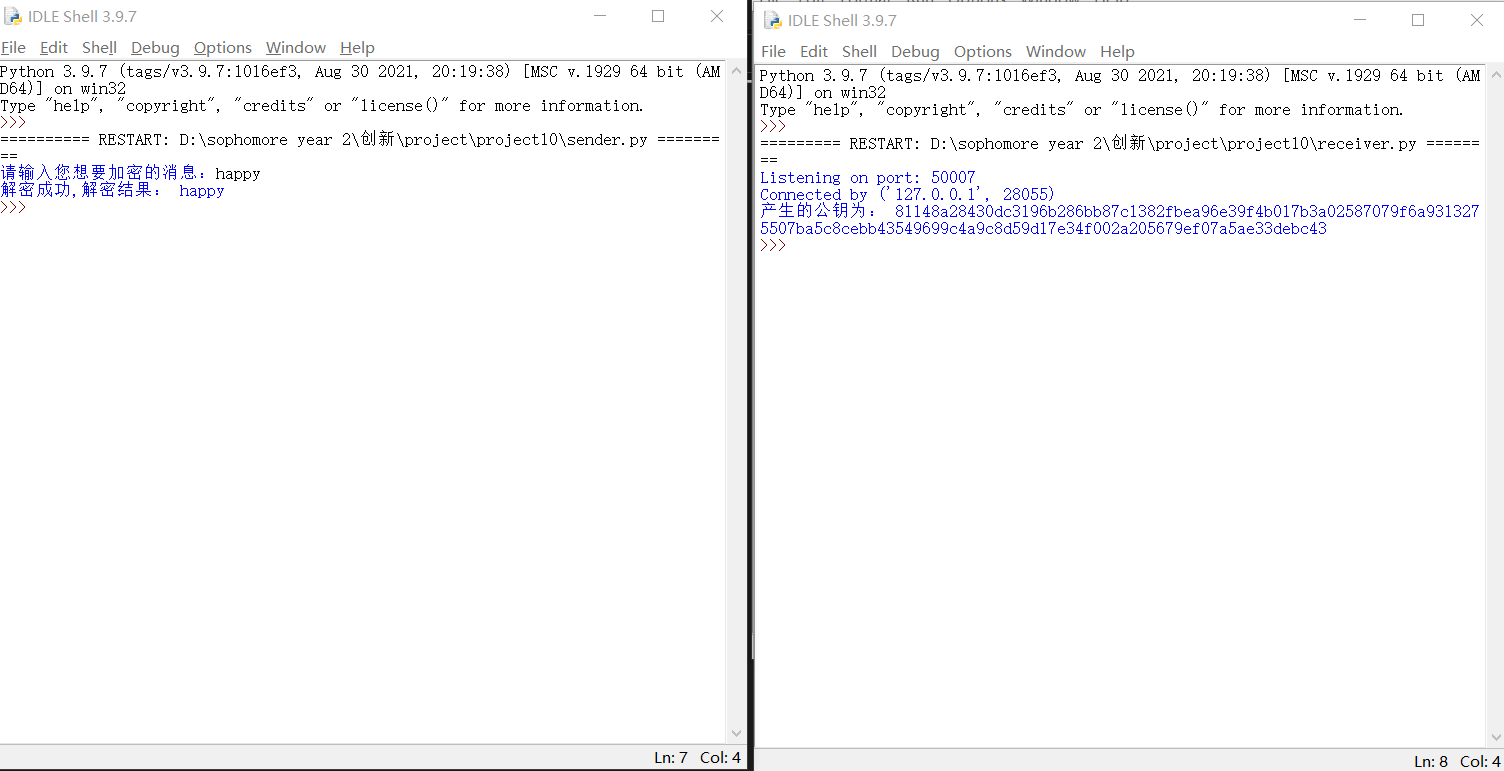
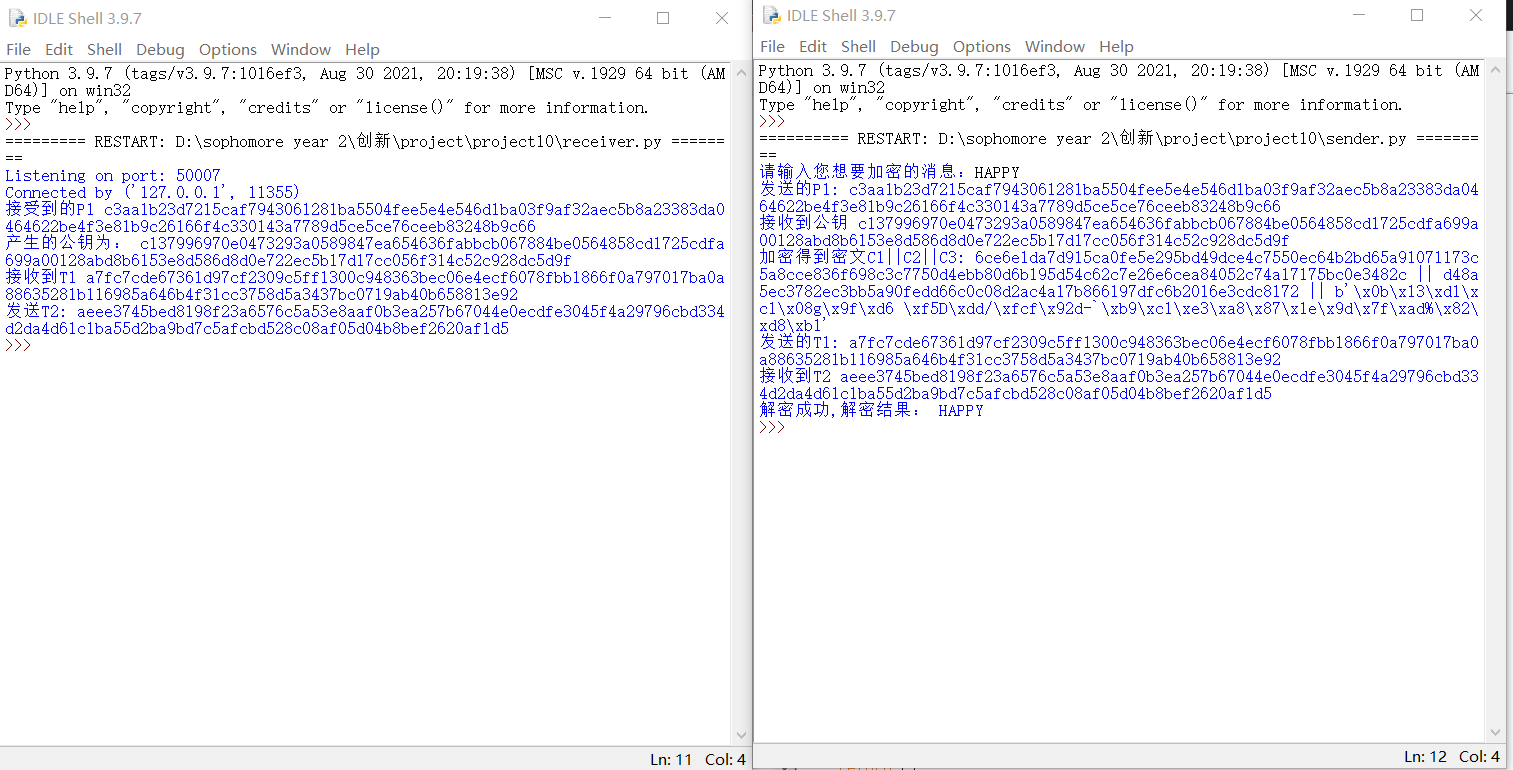
Add files via upload

Changed region(s): [[0.0, 0.0, 1.0, 1.0]]

diff --git a/project10/sender.py b/project10/sender.py
@@ -93,18 +93,21 @@ except Exception as e:
 d1=generate_d1()
 P1=generate_P1(d1)
 s.sendall(P1.encode('utf-8'))#发送P1
+print("发送的P1:",P1)
 P = s.recv(1024).decode('utf-8')
+print("接收到公钥",P)
 k=generate_d1()#生成一个随机数（0，n-1）
 C1,C2,C3=Encrypt_2p(k,P,m)#此处利用加密生成了所有的密文
-
+print("加密得到密文C1||C2||C3:",C1,"||",C2,"||",C3)
 assert C1!='',"C1=0"
 
 n=int(ecctable['n'],16)
 sm2_c=sm2.CryptSM2(private_key="",public_key="")
 T1=sm2_c._kg(inverse(d1,n),C1)
-
+print("发送的T1:",T1)
 s.sendall(T1.encode('utf-8'))#发送T1
 T2= s.recv(1024).decode('utf-8')#接受T2
+print("接收到T2",T2)
 
 C1_1=generate_G_1(C1)
 

diff --git a/project10/receiver.py b/project10/receiver.py
@@ -68,16 +68,20 @@ conn, addr = s.accept()
 print('Connected by', addr)
 
 P1 = conn.recv(1024).decode('utf-8')#接受P1
+print("接受到的P1",P1)
 
 d2=generate_d2()
 P=generate_P(d2,P1)#产生公钥
 print("产生的公钥为：",P)
 conn.sendall(P.encode("utf-8"))
 
+
 T1=conn.recv(1024).decode('utf-8')
+print("接收到T1",T1)
 n=int(ecctable['n'],16)
 sm2_c=sm2.CryptSM2(private_key="",public_key="")
 T2=sm2_c._kg(inverse(d2,n),T1)
+print("发送T2:",T2)
 
 conn.sendall(T2.encode("utf-8"))
 

diff --git a/project10/README.md b/project10/README.md
@@ -5,17 +5,6 @@
 ![是](./ppt.png)
 
 ## 代码说明：
-本次实验引用了gmssl库中关于sm2，sm4相关算法。引用了Crypto中的求逆和KDF算法
-
-```python
-import socket
-from gmssl import sm2 ,sm4
-import sys
-import random 
-from Crypto.Util.number import *
-#inverse(3,7)
-from Crypto.Protocol.KDF import scrypt
-```
 
 ### 函数定义：
 
@@ -136,14 +125,14 @@ except Exception as e:
 d1=generate_d1()
 P1=generate_P1(d1)
 s.sendall(P1.encode('utf-8'))#发送P1
-
+print("发送的P1:",P1)
 ```
 
 receiver接受P1，并生成自己的私钥来生成公钥P，并发送给sender
 
 ```python
 P1 = conn.recv(1024).decode('utf-8')#接受P1
-
+print("接受到的P1",P1)
 d2=generate_d2()
 P=generate_P(d2,P1)#产生公钥
 print("产生的公钥为：",P)
@@ -156,15 +145,16 @@ sender接受P，并生成随机数k来加密信息，获得密文C1||C2||C3
 
 ```python
 P = s.recv(1024).decode('utf-8')
+print("接收到公钥",P)
 k=generate_d1()#生成一个随机数（0，n-1）
 C1,C2,C3=Encrypt_2p(k,P,m)#此处利用加密生成了所有的密文
-
+print("加密得到密文C1||C2||C3:",C1,"||",C2,"||",C3)
 assert C1!='',"C1=0"
 
 n=int(ecctable['n'],16)
 sm2_c=sm2.CryptSM2(private_key="",public_key="")
 T1=sm2_c._kg(inverse(d1,n),C1)
-
+print("发送的T1:",T1)
 s.sendall(T1.encode('utf-8'))#发送T1
 ```
 
@@ -172,16 +162,17 @@ receiver接受T1,并且计算$ T_2=d_2^{-1}*T_1$ 发送给sender
 
 ```python
 T1=conn.recv(1024).decode('utf-8')
+print("接收到T1",T1)
 n=int(ecctable['n'],16)
 sm2_c=sm2.CryptSM2(private_key="",public_key="")
 T2=sm2_c._kg(inverse(d2,n),T1)
-
+print("发送T2:",T2)
 conn.sendall(T2.encode("utf-8"))
 ```
 
 sender接受T2，然后计算$KP=T_2-C_1$，接着计算$t=KDF(x_2||y_2,klen)$ ,接着计算出$m'=C_2 \oplus t$ ,再计算出u=hash（x2||m'||y2），检测u是否等于C3，即可确定解密是否正确，最后输出解密结果
 
-```pythoN
+```python
 T2= s.recv(1024).decode('utf-8')#接受T2
 
 C1_1=generate_G_1(C1)
